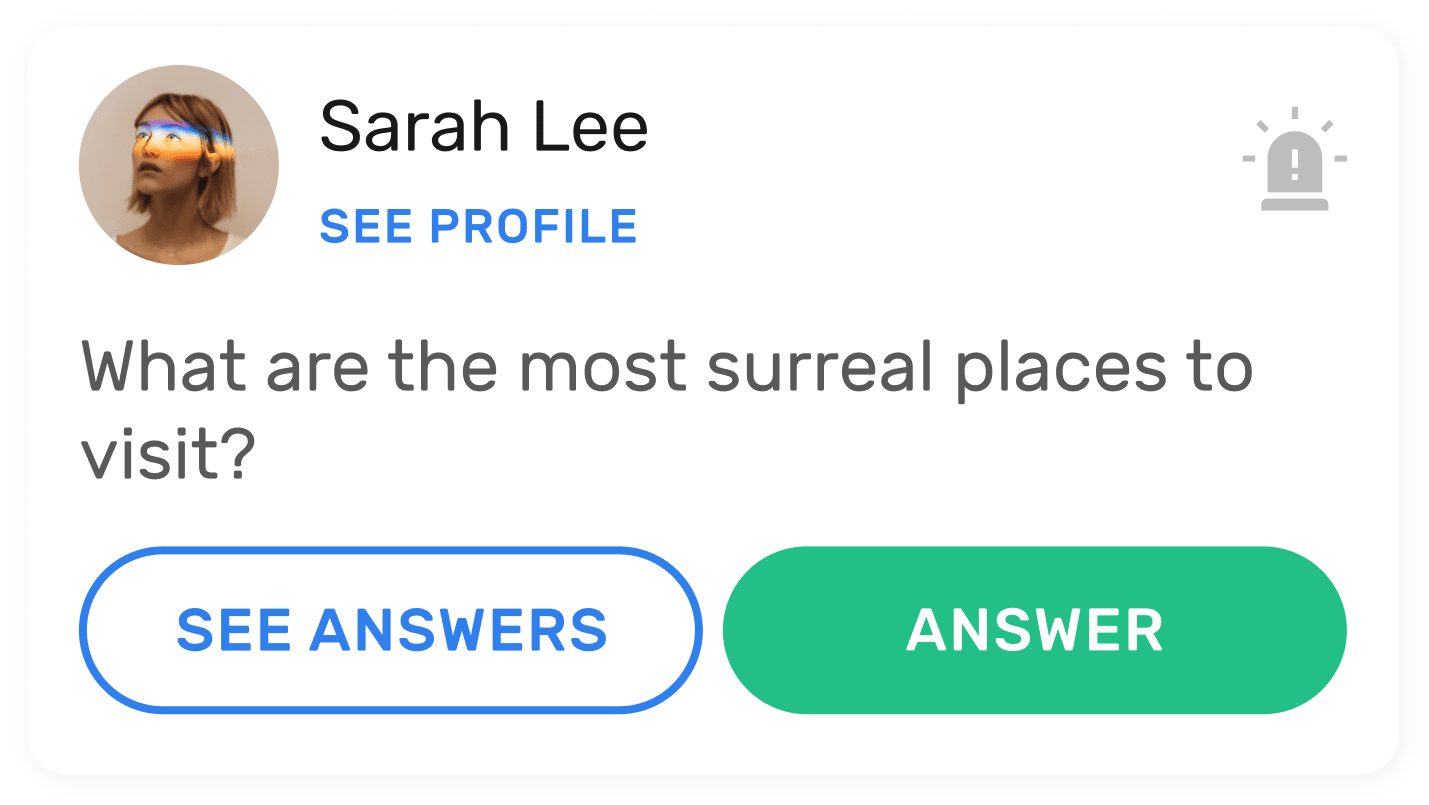
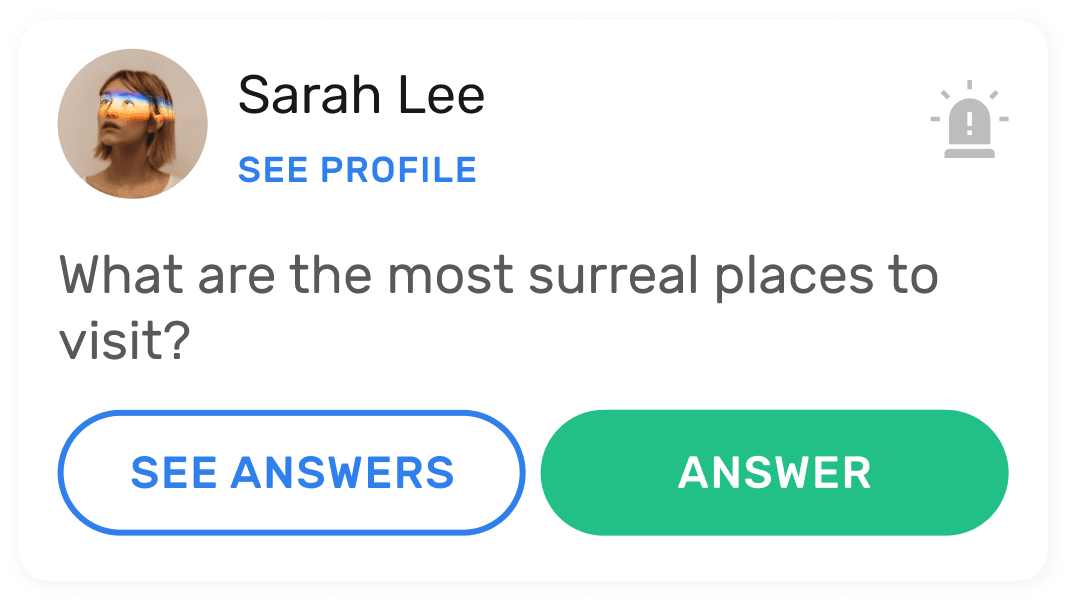
Fixed the blurred images

diff --git a/src/components/Bloomd/section4/index.css.js b/src/components/Bloomd/section4/index.css.js
@@ -24,19 +24,20 @@ export const BloomdSectionWrapperCss = styled.div`
 
 export const TitleWrapperCss = styled.div`
   display: flex;
-  align-items: center;
 
   margin: 0 auto;
   width: 50vw;
   max-width: 648px;
 
-  img {
+  .logo svg {
+    margin-top: 11px;
     margin-right: 50px;
-    width: 140px;
+    width: 130px;
     height: auto;
   }
 
   h1 {
+    margin-top: 0;
     color: ${colors.black};
   }
 
@@ -64,6 +65,7 @@ export const TitleWrapperCss = styled.div`
 
 export const ContentWrapperCss = styled.div`
   width: 80vw;
+  max-width: 1300px;
   margin-top: 130px;
   display: flex;
   justify-content: center;
@@ -135,7 +137,6 @@ export const ContentWrapperCss = styled.div`
     align-items: center;
 
     & > * {
-      /* width: 100%; */
       margin-bottom: 50px;
     }
   }

diff --git a/src/components/Bloomd/section4/index.js b/src/components/Bloomd/section4/index.js
@@ -2,10 +2,9 @@ import React, { memo } from 'react';
 import {
   BloomdSectionWrapperCss,
   TitleWrapperCss,
-  //   InfoBlockCss,
   ContentWrapperCss,
 } from './index.css';
-import image1Png from '../images/image4-1.png';
+import { ReactComponent as IproovLogoSvg } from '../images/iproov.svg';
 import image2Png from '../images/image4-2.png';
 import image3Png from '../images/image4-3.png';
 import image4Png from '../images/image4-4.png';
@@ -16,7 +15,9 @@ const BloomdSection4 = memo(function BloomdSection4() {
   return (
     <BloomdSectionWrapperCss>
       <TitleWrapperCss>
-        <img src={image1Png} alt="" />
+        <div className="logo">
+          <IproovLogoSvg />
+        </div>
         <div>
           <h1>A safe community</h1>
           <p>

diff --git a/src/components/Bloomd/section6/index.js b/src/components/Bloomd/section6/index.js
@@ -40,7 +40,9 @@ const BloomdSection6 = memo(function BloomdSection6() {
                 confusion. The menu is at the bottom of the screen, not hidden
                 behind a burger icon.
               </p>
-              <img src={image2Png} alt="" />
+              <div className="image">
+                <img src={image2Png} alt="" />
+              </div>
             </div>
           </DescriptiveNavigationWrapperCss>
         </SectionContainerCss>

diff --git a/src/components/Bloomd/section6/index.css.js b/src/components/Bloomd/section6/index.css.js
@@ -92,6 +92,9 @@ export const DescriptiveNavigationWrapperCss = styled.div`
 
       img {
         width: 100%;
+        max-width: 375px;
+        height: 100%;
+        filter: drop-shadow(0 -1px 7px rgba(0, 0, 0, 0.15));
       }
     }
   }

diff --git a/src/layout/index.css.js b/src/layout/index.css.js
@@ -9,6 +9,10 @@ export const GlobalStyle = createGlobalStyle`
     background-color:${colors.black};
 	margin:10px 0px 0px;
   }
+
+  img {
+	image-rendering: -webkit-optimize-contrast;
+  }
 `;
 
 export const LayoutsWrapperCss = styled.div`

diff --git a/src/components/Bloomd/section3/index.css.js b/src/components/Bloomd/section3/index.css.js
@@ -88,6 +88,7 @@ export const ContentWrapperCss = styled.div`
     &:first-child {
       width: 40%;
       margin-right: 65px;
+      text-align: center;
 
       img {
         max-width: 40%;
